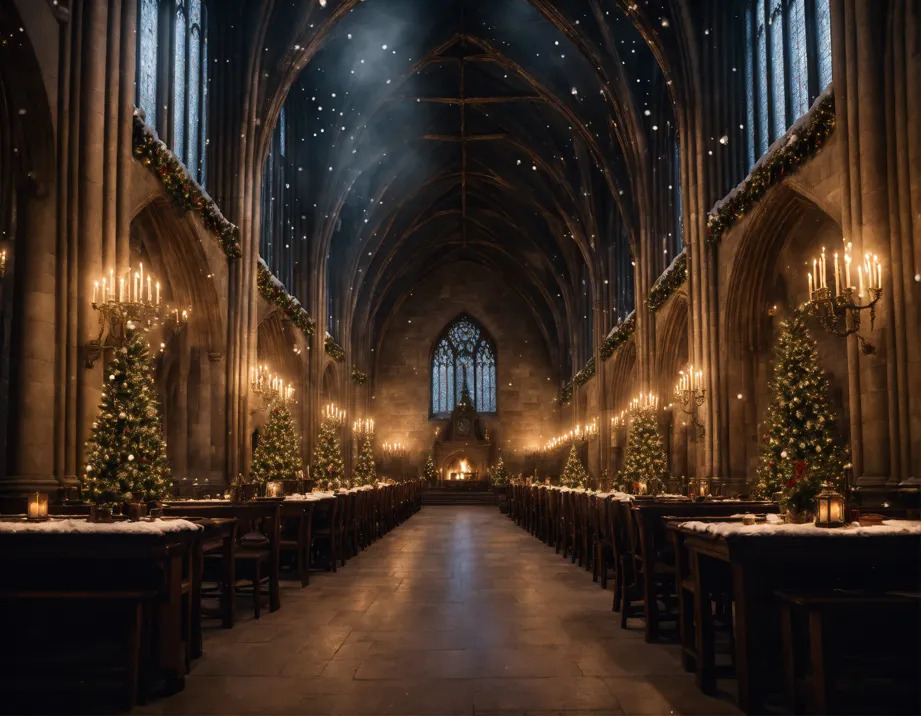
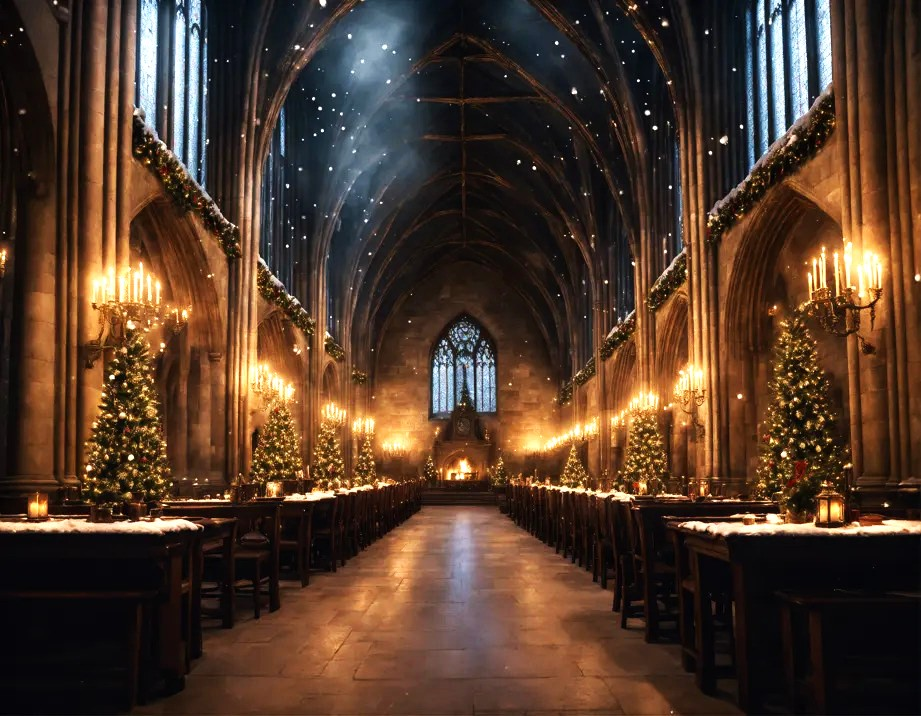
background

diff --git a/assignments/a9/main.cpp b/assignments/a9/main.cpp
@@ -73,6 +73,7 @@ public:
         OpenGLTextureLibrary::Instance()->Add_Texture_From_File("tex/star.png", "star_color");
         OpenGLTextureLibrary::Instance()->Add_Texture_From_File("tex/hat_color.jpg", "hat_color");
         OpenGLTextureLibrary::Instance()->Add_Texture_From_File("tex/hat_normal.jpeg", "hat_normal");
+        OpenGLTextureLibrary::Instance()->Add_Texture_From_File("tex/FinalBackground.png", "background_image");
         OpenGLTextureLibrary::Instance()->Add_Texture_From_File("tex/broom_color.jpeg", "broom_color");
         OpenGLTextureLibrary::Instance()->Add_Texture_From_File("tex/broom_normal.jpeg", "broom_normal");
 
@@ -94,6 +95,27 @@ public:
         //// (3) Sky box (cubemap; if you want to load six background images for a skybox, use this one)
         //// (4) Sky sphere (if you want to implement a sky sphere, enlarge the size of the sphere to make it colver the entire scene and update its shaders for texture colors)
         //// By default, Option (2) (Buzz stars) is turned on, and all the other three are commented out.
+        {
+        // Create a quad mesh object
+        auto background_quad = Add_Tri_Mesh_Object(
+            {Vector3(-10, -10, -10), Vector3(10, -10, -10), Vector3(10, 10, -10), Vector3(-10, 10, -10)},
+            {Vector3i(0, 1, 2), Vector3i(0, 2, 3)});
+
+        // Set the UV coordinates for the quad
+        background_quad->mesh.Uvs() = {Vector2(0, 1), Vector2(1, 1), Vector2(1, 0), Vector2(0, 0)};
+
+        // Set the material properties (not critical for background)
+        background_quad->Set_Ka(Vector3f(0.1f, 0.1f, 0.1f));
+        background_quad->Set_Kd(Vector3f(0.7f, 0.7f, 0.7f));
+        background_quad->Set_Ks(Vector3f(0.0f, 0.0f, 0.0f)); // No specular
+        background_quad->Set_Shininess(1.0f);
+
+        // Bind the background texture to the quad
+        background_quad->Add_Texture("tex_color", OpenGLTextureLibrary::Get_Texture("background_image"));
+
+        // Bind the basic shader to the quad
+        background_quad->Add_Shader_Program(OpenGLShaderLibrary::Get_Shader("basic"));
+        }
         
         //// Background Option (1): Gradient color
         /*
